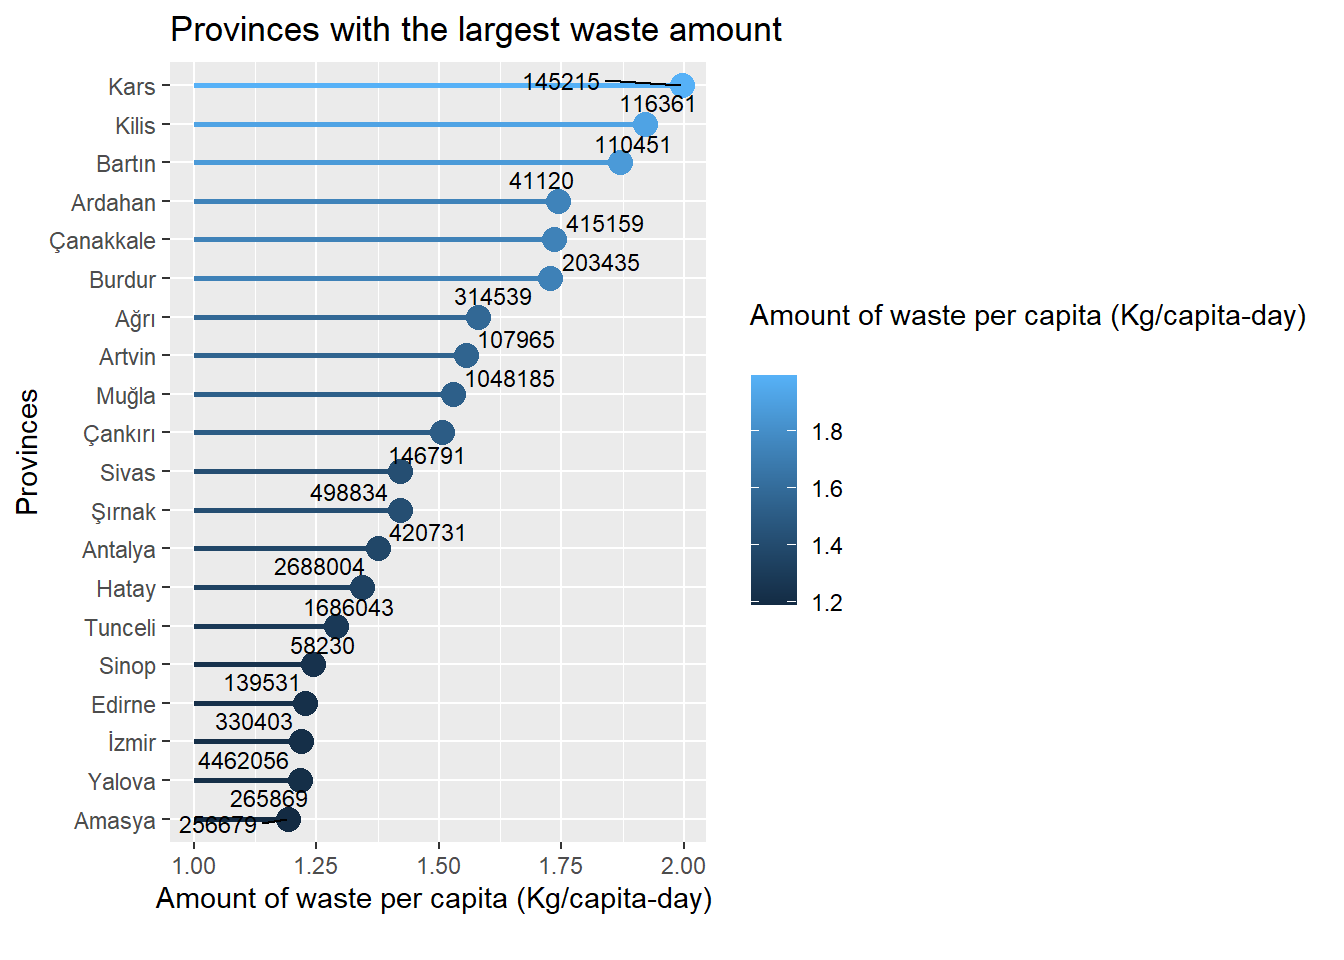
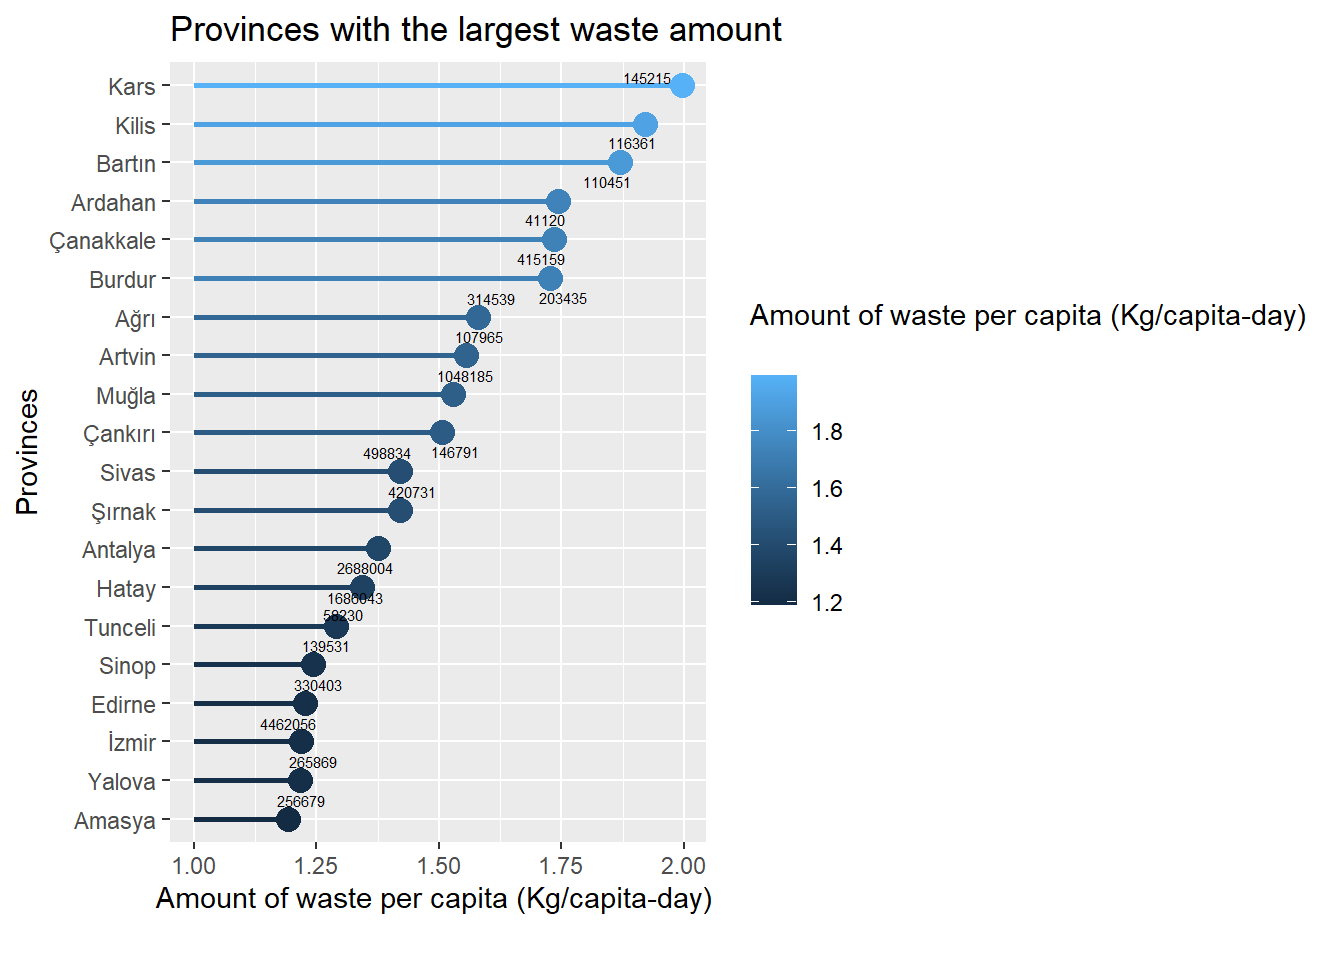
17

diff --git a/docs/project.html b/docs/project.html
@@ -734,15 +734,11 @@ Total amount of waste collected  (Tonnes)
 <span id="cb36-10"><a href="#cb36-10" aria-hidden="true" tabindex="-1"></a><span class="st">`</span>, <span class="at">FUN =</span> sum), <span class="at">color =</span> <span class="st">`</span><span class="at">Amount of waste per capita (Kg/capita-day) </span></span>
 <span id="cb36-11"><a href="#cb36-11" aria-hidden="true" tabindex="-1"></a><span class="st">`</span>)) <span class="sc">+</span></span>
 <span id="cb36-12"><a href="#cb36-12" aria-hidden="true" tabindex="-1"></a>  <span class="fu">geom_point</span>(<span class="at">size =</span> <span class="dv">4</span>) <span class="sc">+</span></span>
-<span id="cb36-13"><a href="#cb36-13" aria-hidden="true" tabindex="-1"></a>  <span class="fu">geom_segment</span>(<span class="fu">aes</span>(<span class="at">xend =</span> <span class="dv">1</span>, <span class="at">yend =</span> Provinces), <span class="at">size =</span> <span class="dv">1</span>) <span class="sc">+</span></span>
+<span id="cb36-13"><a href="#cb36-13" aria-hidden="true" tabindex="-1"></a>  <span class="fu">geom_segment</span>(<span class="fu">aes</span>(<span class="at">xend =</span> <span class="dv">1</span>, <span class="at">yend =</span> Provinces), <span class="at">linewidth =</span> <span class="dv">1</span>) <span class="sc">+</span></span>
 <span id="cb36-14"><a href="#cb36-14" aria-hidden="true" tabindex="-1"></a>  <span class="fu">ylab</span>(<span class="st">"Provinces"</span>) <span class="sc">+</span></span>
 <span id="cb36-15"><a href="#cb36-15" aria-hidden="true" tabindex="-1"></a>  <span class="fu">ggtitle</span>(<span class="st">"Provinces with the largest waste amount"</span>)<span class="sc">+</span></span>
-<span id="cb36-16"><a href="#cb36-16" aria-hidden="true" tabindex="-1"></a>  <span class="fu">geom_text_repel</span>(<span class="fu">aes</span>(<span class="at">label =</span><span class="st">`</span><span class="at">Total municipal population</span><span class="st">`</span>), <span class="at">color =</span> <span class="st">"black"</span>, <span class="at">size =</span> <span class="dv">3</span>)</span></code><button title="Copy to Clipboard" class="code-copy-button"><i class="bi"></i></button></pre></div>
+<span id="cb36-16"><a href="#cb36-16" aria-hidden="true" tabindex="-1"></a>  <span class="fu">geom_text_repel</span>(<span class="fu">aes</span>(<span class="at">label =</span><span class="st">`</span><span class="at">Total municipal population</span><span class="st">`</span>), <span class="at">color =</span> <span class="st">"black"</span>, <span class="at">size =</span> <span class="dv">2</span>)</span></code><button title="Copy to Clipboard" class="code-copy-button"><i class="bi"></i></button></pre></div>
 </details>
-<div class="cell-output cell-output-stderr">
-<pre><code>Warning: Using `size` aesthetic for lines was deprecated in ggplot2 3.4.0.
-ℹ Please use `linewidth` instead.</code></pre>
-</div>
 <div class="cell-output-display">
 <div>
 <figure class="figure">
